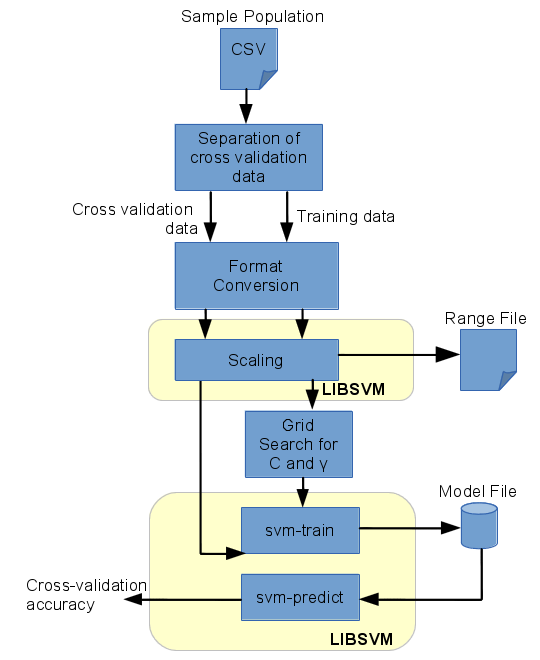
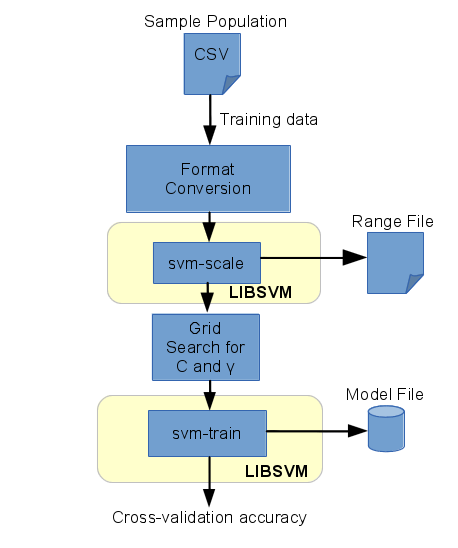
Chapter5 complete before review

diff --git a/content/chapter5.tex b/content/chapter5.tex
@@ -36,7 +36,6 @@ For the purpose of running experiments uniformly on different circuit types, a s
 			\item Transient faults (fault rate = 0.01, 0.001, 0.0001) with label \texttt{T}.
 		\item Permanent faults are modeled using stuck-at, wired or delay faults, Intemittents are modeled using high frequency power droop, and transient faults are modeled as conditional stuck-at faults at random locations, triggered using deterministic fault rate.
  		 \end{enumerate}
-  \item One-fourth of total population is separated out as cross-validation set, rest is used as training data.
   \item Test data has 250 ($\pm$ 15) labeled examples, with same configuration as that for sample population.
 \end{enumerate}
 
@@ -67,27 +66,49 @@ Shell scripts are used to invoke instances of ADAMA and inject fault instances o
 
 \section{Library for SVM based classification - \texttt{LIBSVM}}
 \label{sec:libsvm}
-\texttt{LIBSVM} \cite{Chang2011} is a popular SVM library, used in variety of applications. It supports linear, polynomial, radial and sigmoid kernel functions and also supports custom user kernels. It is coded in C++ and Java and it is available as open-source software available for free use under modified BSD license. It supports multi-class classification using multiple binary classifiers. \texttt{LIBSVM} comes with scripts to train the tool and to find optimal parameters for classification.
+\texttt{LIBSVM} \cite{Chang2011} is a popular SVM library, used in variety of applications. It supports linear, polynomial, radial and sigmoid kernel functions and also supports custom user kernels. For experiments, all of the available kernels in the tool have been used, to find out accuracy levels for each of them. It is coded in C++ and Java and it is available as open-source software available for free use under modified BSD license. It supports multi-class classification using multiple binary classifiers. \texttt{LIBSVM} comes with scripts to train the tool and to find optimal parameters for classification.
 
 \subsection{Training}
 
 \begin{figure}[h]
   \begin{center}
     \captionsetup{justification=centering}
-    \includegraphics[scale=0.65]{figures/libsvmtrain.png}
+    \includegraphics[scale=0.75]{figures/libsvmtrain.png}
     \caption{Steps to train SVM using \texttt{LIBSVM}}
     \label{fig:libsvmtrain}
   \end{center}
 \end{figure}
 
 Sequence of steps followed to train SVM, as shown in figure~\ref{fig:libsvmtrain} is as follows:
-
 \begin{description}
-  \item[Separation of cross-validation data] Complete sample population is split into two parts - $\sfrac{3}{4}^\textsuperscript{th}$ of the population is used as training data and remaining  $\sfrac{1}{4}^\textsuperscript{th}$ is used for cross-validation. The splitting algorithm picks every $4^\textsuperscript{th}}$ element from sample population, and hence the configuration of training and cross-validation data remains almost same as that of sample population.
+   \item[Format conversion] \texttt{LIBSVM} requires input in \emph{sparse} format. A utility function \texttt{convert} provided by authors of \texttt{LIBSVM} has been extended to be compatible with the CSV format output of \texttt{spgen}.
 
-  \item[Intermittent faults] Script first generates intermittent fault descriptions with random seed values for location and fault activation and store them into a file. It then invokes \texttt{spgen} using ADAMA and simulates these fault instances first without and then with transient noise, while logging all seed values and corresponding fault rates. The fault descriptions and and corresponding examples in feature files of intermittent faults and intermittent faults with transient noise are removed, where intermittent fault as not active at least for one simulation round.
-
-  \item[Transient faults] Script takes circuit description and passes it, along with a transient fault instance with defined fault rate and a randomly generated seed value to \texttt{spgen} in ADAMA. It also logs seed values and corresponding fault rates used for generation of transient fault instances.
+  \item[Scaling] \texttt{svm-scale} executable file in \texttt{LIBSVM} provides functionallity to scale the training data to user specified input range. Documentation of \texttt{LIBSVM} \cite{Hsu2003} suggest use of range [0,1] for the data containing zero values for some of feaures, as in our case. The scaling parameters are stored in a \emph{range file}, which is later used to scale features of future examples or test data.
+  
+  \item[Grid search for C and $\gamma$] \texttt{LIBSVM} provides a script to find suitable values of C and $\gamma$. The grid search algorithm uses $v$-fold cross-validation (CV), meaning that the data is divided into $v$ subsets and one subset is tested against classifier trained with rest of $v-1$ subsets, iteratively until complete training set is covered \cite{Hsu2003}.  This results in the training data being tested once completely, and corresponding accuracy is called as \emph{cross-validation accuracy}. The algorithm then tries various pairs of C and $\gamma$ to find a pair with the highest CV accuracy. This script internally uses \texttt{svm-train} for modeling classifiers, when it calculates CV accuracy, hence the kernel type for training needs to be specified. This script was extended to take kernel type as input.
+ 
+ \item[Training] \texttt{svm-train} executable file in \texttt{LIBSVM} is used for training SVM. It tries to solve the minimization problem (refer section~\ref{mltypes:svm}) to find out best fitting model for the SVM. Kernel to be used for training needs to be provided as input at this stage also. It outputs a \emph{model file} to be used for prediction of future examples.
 \end{description}
 
 \subsection{Classification}
+
+Steps to classify data using already trained SVM is shown in figure~\ref{fig:libsvmpredict}. A short description of the these is noted below:
+
+\begin{figure}[h]
+  \begin{center}
+    \captionsetup{justification=centering}
+    \includegraphics[scale=0.75]{figures/libsvmpredict.png}
+    \caption{Steps for classification of test data with SVM using \texttt{LIBSVM}}
+    \label{fig:libsvmpredict}
+  \end{center}
+\end{figure}
+
+\begin{description}
+
+   \item[Format conversion] Using the same tool used for format conversion of training data, format of test data is also converted to sparse format.
+
+  \item[Scaling] The test data is scaled using \texttt{svm-scale}. The range file generated while scaling the training data is used in this step to scale the test data.
+  
+  \item[Prediction] \texttt{svm-predict} tool provided with \texttt{LIBSVM} is used to predict the test data. \texttt{svm-predict} needs model file generated during training as input and it outputs \emph{predict file} with predicated labels of the test data. This file is further processed using scripts for evaluation of accuracy levels of different fault classes.
+  
+\end{description}

diff --git a/content/chapter3.tex b/content/chapter3.tex
@@ -107,7 +107,7 @@ During training of perceptron, training algorithm will try to find appropriate c
 Once trained, MLPs are able to classify data fast \cite{Alpaydin2004}. They can implement higher order polynomial functions and are flexible and powerful due to well researched mathematical background and variety of training algorithms available, which can be selected according to application and amount of data available. A disadvantage is that the network needs to be completely re-trained when new training data is to be added. Selection of features also has a profound impact on performance of MLPs \cite{Kavzoglu2002, El-Khatib2010}.
 
 \subsection{Support Vector Machines}
-
+\label{mltypes:svm}
 \emph{Support Vector Machines} (SVMs) have existed for a long time, but the research on these gained particular momentum since Vapnik \cite{Vapnik1995} emphasized these methods in books on statistical learning theory. SVM belongs to class of linear classifiers.In higher dimensions, SVM tries to divide the feature space using decision hyperplanes. However as there can be several planes that divide feature space, SVM selects the plane with maximum margin. Figure~\ref{fig:svm1} shows a case where two possible lines divide feature space, $h_1$ and $h_2$. SVM will choose $h_2$ as \emph{decision boundary} or \emph{discriminant function} as it provides maximum margin for classification. The examples in training data SVM uses to evaluate maximum margin (\emph{i.e.} examples with least distance from decision hyperplane) are called \emph{support vectors}.
 
 \begin{figure}[h]

diff --git a/content/chapter4.tex b/content/chapter4.tex
@@ -239,7 +239,6 @@ Furthermore, the standard deviation of evidence parameters is expected to be aro
         \label{fig:sdevidance} 
 \end{figure}
 
-\subsection{Summary of selected features}
 Table~\ref{tab:features} summarizes the selected features.
 {%
 \newcommand{\mc}[3]{\multicolumn{#1}{#2}{#3}}

diff --git a/preambel/packages_and_options.tex b/preambel/packages_and_options.tex
@@ -101,7 +101,6 @@
 %
 %%%
 
-
 %%%
 % Intelligentes Leerzeichen um hinter Abkürzungen die richtigen Abstände zu erhalten, auch leere.
 % siehe commands.tex \gq{}
